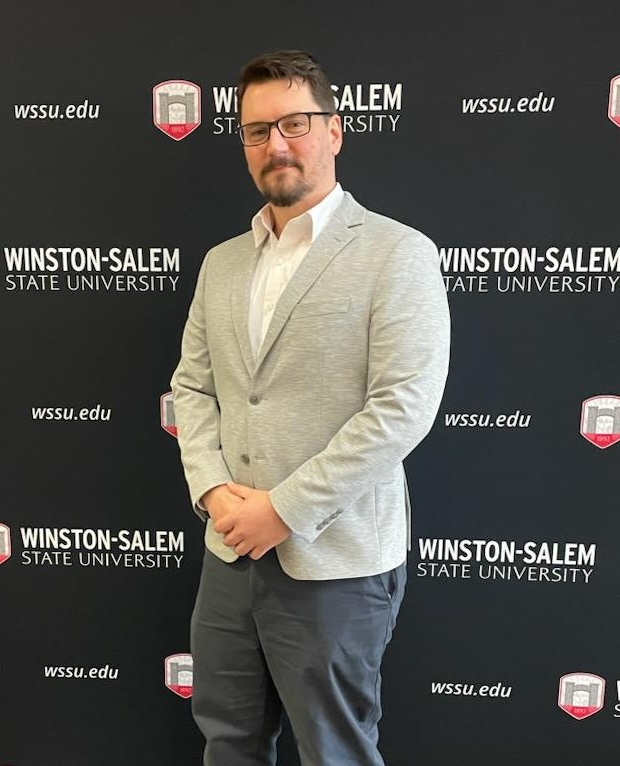
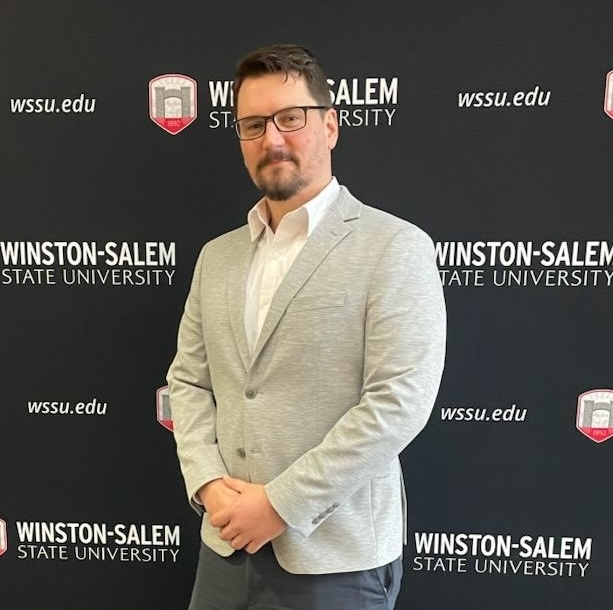
Image on hero hidden below md, resized images in gallery, added poster jpeg

diff --git a/src/components/Hero.jsx b/src/components/Hero.jsx
@@ -9,17 +9,17 @@ const Hero = () => {
       <div className='max-w-[1000px] mx-auto px-8 flex flex-col justify-center h-full'>
         <p className='text-[#AD5E99]'>Hello, my name is</p>
         <h1 className='text-4xl sm:text-7xl font-bold text-[#3a98a5]'>Kris Mannino</h1>
-        <h2 className='text-2xl sm:text-5xl font-bold text-[#AD5E99]' style={{ marginRight: '30%' }}>Computer Science student at <a href="wssu.edu">Winston-Salem State University</a></h2>
+        <h2 className='text-2xl sm:text-5xl font-bold text-[#AD5E99] md:mr-[30%]'>Computer Science student at <a href="wssu.edu">Winston-Salem State University</a></h2>
         
         {/* Image Headshot */}
-        <img className='max-w-[25%] absolute right-0 mr-12 rounded-2xl border-4 border-[#3a98a5] bg-[#7DF9FF] gradient-border' src={Headshot} alt="Kris' Headshot" />
+        <img className='max-w-[25%] absolute right-0 mr-12 rounded-full border-4 shadow-lg shadow-[#3a98a5] border-[#3a98a5] bg-[#7DF9FF] gradient-border hidden md:block' src={Headshot} alt="Kris' Headshot" />
 
-        <p className='py-4 max-w-[700px] text-[#AAABB8]' style={{ marginRight: '32%' }}>I am currently pursuing my Masters degree in Computer Science, working as a research assistant in the <a href="https://www.wssu.edu/academics/colleges-and-departments/college-of-arts-sciences-business-education/center-for-applied-data-science/index.html">Center for Applied Data Science</a>, and I'm an all around pretty cool guy.</p>
+        <p className='py-4 max-w-[700px] text-[#AAABB8] md:mr-[30%]' >I am currently pursuing my Masters degree in Computer Science, working as a research assistant in the <a href="https://www.wssu.edu/academics/colleges-and-departments/college-of-arts-sciences-business-education/center-for-applied-data-science/index.html">Center for Applied Data Science</a>, and I'm an all around pretty cool guy.</p>
         <div>
           <button className='rounded-full text-[#ECECEC] border-2 px-6 py-3 my-2 flex items-center hover:bg-[#3a98a5] hover:border-[#3a98a5]'>
             View work 
             <span className='hover:animate-spin'>
-            <HiArrowNarrowRight className='ml-4 animate-bounce'/>
+            <HiArrowNarrowRight className='ml-4 animate-bounce hidden md:block'/>
             </span>
           </button>
       </div>

diff --git a/src/components/Achievements.jsx b/src/components/Achievements.jsx
@@ -1,5 +1,6 @@
 import React from 'react';
 import cADSPoster from '../assets/CADSposter.png'
+import CADSXLPoster from '../assets/CADS_Poster.jpeg'
 
 const Achievements = () => {
   return (
@@ -17,7 +18,7 @@ const Achievements = () => {
             <p className='mt-2'>Awarded Third Place for the non-Biological Sciences category in the Poster competition on Scholarship day at <a href="wssu.edu">WSSU</a>, Spring 2023.</p>
           </div>
           <div className='flex justify-center items-center mb-8'>
-            <img className='w-auto h-auto shadow-md shadow-[#00A7E1] hover:scale-110 duration-500' src={cADSPoster} alt="CADS Poster" />
+            <a href={CADSXLPoster}><img className='w-auto h-auto shadow-md shadow-[#00A7E1] hover:scale-110 duration-500' src={cADSPoster} alt="CADS Poster" /></a>
           </div>
 
           {/* Second Item */}
@@ -26,7 +27,7 @@ const Achievements = () => {
             <p className='mt-2'>Click back in to see more of my awards, certifications, and other happenings</p>
           </div>
           <div className='flex justify-center items-center mb-8'>
-          <div className='w-auto h-auto shadow-md shadow-[#00A7E1] hover:scale-110 duration-500 loader'></div>
+          <div className='hidden md:block w-auto h-auto shadow-md shadow-[#00A7E1] hover:scale-110 duration-500 loader'></div>
           </div>
 
   

diff --git a/src/components/Navbar.jsx b/src/components/Navbar.jsx
@@ -51,7 +51,7 @@ const Navbar = () => {
         </ul>
 
       {/*Hamburger Menu */}
-        <div onClick={handleClick} className='md:hidden z-10'>
+        <div onClick={handleClick} className='md:hidden'>
           {!nav ? <FaBars/> : <FaTimes/>}
         </div>
 
@@ -66,7 +66,7 @@ const Navbar = () => {
             <li className='py-6 text-4xl'><Link to="/contact" onClick={handleClick} smooth={true} duration={500}>Contact</Link></li>
           </ul> */}
           {/* Static Mobile menu */}
-          <ul className={!nav ? 'hidden' : 'absolute top-0 left-0 w-full h-screen bg-[#474787] flex flex-col justify-center items-center'}>
+          <ul className={!nav ? 'hidden' : 'absolute top-0 left-0 w-full h-screen bg-[#474787] flex flex-col justify-center items-center z-10'}>
             <li className='py-6 text-4xl'><a href="/">Home</a></li>
             <li className='py-6 text-4xl'><a href="/about">About</a></li>
             <li className='py-6 text-4xl'><a href="/skills">Skills</a></li>

diff --git a/src/components/About.jsx b/src/components/About.jsx
@@ -19,7 +19,7 @@ const About = () => {
             </div>
             <div>
               <p>
-                I am a senior at WSSU with full-stack development skills. I am minoring in data science and am always expanding my knowledge in development by learnig different languages, frameworks, and system designs.
+                I am a senior at <a href="wssu.edu">WSSU</a> with full-stack development skills. I am minoring in data science and am always expanding my knowledge in development by learnig different languages, frameworks, and system designs.
               </p>
             </div>
           </div>
